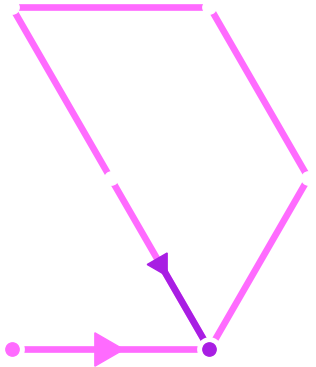
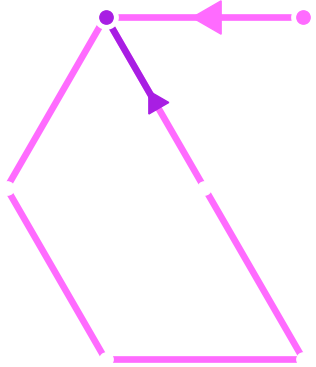
Rescue Consideration from Australia

Changed region(s): [[0.0, 0.0, 0.9968, 1.0]]

diff --git a/CHANGELOG.md b/CHANGELOG.md
@@ -20,7 +20,7 @@ All notable changes to the "hex-casting" extension will be documented in this fi
 - TODO: Fix pattern suggestions being shown in comments
 - TODO: Fix `.` not counting as part of a number
 - Fix leading Consideration not showing hover text
-- Fix Consideration pattern being upside down
+- Fix Consideration image being upside down
 
 ## [0.0.6] - 2022-12-10
 
